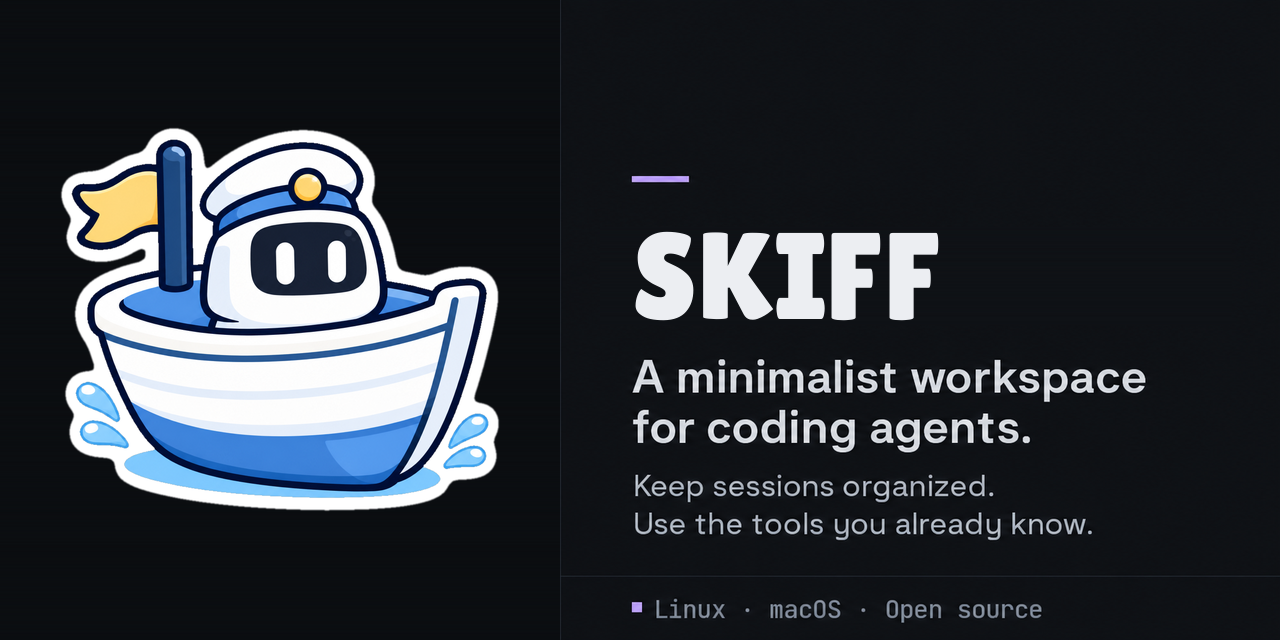
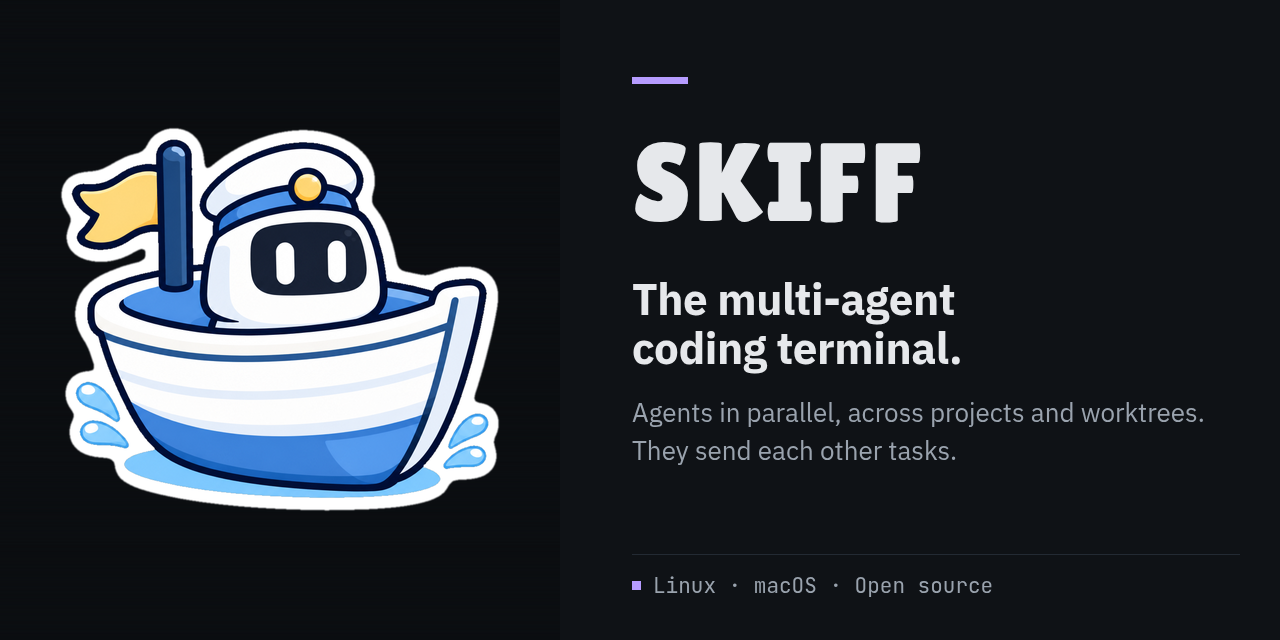
Social preview: the multi-agent coding terminal; og:image v4
The PNG now has a source: tools/social-preview.html, rendered by
tools/social-preview.py with headless Chrome. The left panel is the
old mascot panel, kept as tools/social-preview-mascot.png. The
og:image:alt matches the new headline and the footer text sits inside
GitHub's 40px safe margin.

diff --git a/tools/social-preview.html b/tools/social-preview.html
@@ -1,0 +1,42 @@
+<!doctype html>
+<!-- Source of social-preview.png (1280x640, the og:image of every page and the
+     GitHub social preview). Edit the text here, then run:
+
+         python3 tools/social-preview.py
+
+     The left panel is tools/social-preview-mascot.png: the idle pose on the
+     bg-deep colour, 560x640, kept from the first render. Colours and fonts follow
+     site.css. Text stays inside GitHub's 40px safe margin. -->
+<html lang="en">
+<head>
+<meta charset="utf-8">
+<link href="https://fonts.googleapis.com/css2?family=IBM+Plex+Sans:wght@400;500;600;700&family=JetBrains+Mono:wght@400;600&family=Lilita+One&display=swap" rel="stylesheet">
+<style>
+  * { box-sizing: border-box; margin: 0; }
+  html, body { width: 1280px; height: 640px; overflow: hidden; }
+  body { display: flex; background: #0f1216; color: #e6e8eb; font-family: "IBM Plex Sans", system-ui, sans-serif; -webkit-font-smoothing: antialiased; }
+  .mascot { width: 560px; height: 640px; background: #0b0e12; border-right: 1px solid #232a33; }
+  .mascot img { display: block; }
+  .copy { flex: 1; padding: 0 40px 24px 72px; display: flex; flex-direction: column; }
+  .text { flex: 1; display: flex; flex-direction: column; justify-content: center; padding-bottom: 8px; }
+  .rule { width: 56px; height: 7px; background: #b69cff; margin-bottom: 42px; }
+  .mark { font-family: "Lilita One", sans-serif; font-weight: 400; font-size: 112px; line-height: 1; letter-spacing: 0.02em; text-transform: uppercase; color: #e6e8eb; margin-bottom: 36px; }
+  h1 { font-size: 44px; line-height: 1.12; font-weight: 700; letter-spacing: -0.01em; color: #e6e8eb; margin-bottom: 22px; }
+  p { font-size: 26px; line-height: 1.45; font-weight: 400; color: #9aa3ae; }
+  .foot { height: 62px; border-top: 1px solid #232a33; display: flex; align-items: center; gap: 12px; font-family: "JetBrains Mono", ui-monospace, monospace; font-size: 21px; color: #9aa3ae; }
+  .foot i { width: 9px; height: 9px; background: #b69cff; }
+</style>
+</head>
+<body>
+<div class="mascot"><img src="social-preview-mascot.png" alt="" width="560" height="640"></div>
+<div class="copy">
+  <div class="text">
+    <div class="rule"></div>
+    <div class="mark">Skiff</div>
+    <h1>The multi-agent<br>coding terminal.</h1>
+    <p>Agents in parallel, across projects and worktrees.<br>They send each other tasks.</p>
+  </div>
+  <div class="foot"><i></i>Linux · macOS · Open source</div>
+</div>
+</body>
+</html>

diff --git a/guides/skiff-user-guide/focus-mode-and-mission-control/index.html b/guides/skiff-user-guide/focus-mode-and-mission-control/index.html
@@ -10,10 +10,10 @@
 <meta property="og:type" content="article">
 <meta property="og:site_name" content="Skiff">
 <meta property="og:url" content="https://skiff.solutionscay.com/guides/skiff-user-guide/focus-mode-and-mission-control/">
-<meta property="og:image" content="https://skiff.solutionscay.com/social-preview.png?v=3">
+<meta property="og:image" content="https://skiff.solutionscay.com/social-preview.png?v=4">
 <meta property="og:image:width" content="1280">
 <meta property="og:image:height" content="640">
-<meta property="og:image:alt" content="Skiff: a minimalist desktop workspace for coding agents">
+<meta property="og:image:alt" content="Skiff: the multi-agent coding terminal">
 <meta name="twitter:card" content="summary_large_image">
 <link rel="canonical" href="https://skiff.solutionscay.com/guides/skiff-user-guide/focus-mode-and-mission-control/">
 <link rel="icon" href="../../../favicon.png">

diff --git a/guides/skiff-user-guide/side-panel-diffs-and-files/index.html b/guides/skiff-user-guide/side-panel-diffs-and-files/index.html
@@ -10,10 +10,10 @@
 <meta property="og:type" content="article">
 <meta property="og:site_name" content="Skiff">
 <meta property="og:url" content="https://skiff.solutionscay.com/guides/skiff-user-guide/side-panel-diffs-and-files/">
-<meta property="og:image" content="https://skiff.solutionscay.com/social-preview.png?v=3">
+<meta property="og:image" content="https://skiff.solutionscay.com/social-preview.png?v=4">
 <meta property="og:image:width" content="1280">
 <meta property="og:image:height" content="640">
-<meta property="og:image:alt" content="Skiff: a minimalist desktop workspace for coding agents">
+<meta property="og:image:alt" content="Skiff: the multi-agent coding terminal">
 <meta name="twitter:card" content="summary_large_image">
 <link rel="canonical" href="https://skiff.solutionscay.com/guides/skiff-user-guide/side-panel-diffs-and-files/">
 <link rel="icon" href="../../../favicon.png">

diff --git a/guides/skiff-user-guide/projects-and-fleets/index.html b/guides/skiff-user-guide/projects-and-fleets/index.html
@@ -10,10 +10,10 @@
 <meta property="og:type" content="article">
 <meta property="og:site_name" content="Skiff">
 <meta property="og:url" content="https://skiff.solutionscay.com/guides/skiff-user-guide/projects-and-fleets/">
-<meta property="og:image" content="https://skiff.solutionscay.com/social-preview.png?v=3">
+<meta property="og:image" content="https://skiff.solutionscay.com/social-preview.png?v=4">
 <meta property="og:image:width" content="1280">
 <meta property="og:image:height" content="640">
-<meta property="og:image:alt" content="Skiff: a minimalist desktop workspace for coding agents">
+<meta property="og:image:alt" content="Skiff: the multi-agent coding terminal">
 <meta name="twitter:card" content="summary_large_image">
 <link rel="canonical" href="https://skiff.solutionscay.com/guides/skiff-user-guide/projects-and-fleets/">
 <link rel="icon" href="../../../favicon.png">

diff --git a/guides/skiff-user-guide/sessions-and-groups/index.html b/guides/skiff-user-guide/sessions-and-groups/index.html
@@ -10,10 +10,10 @@
 <meta property="og:type" content="article">
 <meta property="og:site_name" content="Skiff">
 <meta property="og:url" content="https://skiff.solutionscay.com/guides/skiff-user-guide/sessions-and-groups/">
-<meta property="og:image" content="https://skiff.solutionscay.com/social-preview.png?v=3">
+<meta property="og:image" content="https://skiff.solutionscay.com/social-preview.png?v=4">
 <meta property="og:image:width" content="1280">
 <meta property="og:image:height" content="640">
-<meta property="og:image:alt" content="Skiff: a minimalist desktop workspace for coding agents">
+<meta property="og:image:alt" content="Skiff: the multi-agent coding terminal">
 <meta name="twitter:card" content="summary_large_image">
 <link rel="canonical" href="https://skiff.solutionscay.com/guides/skiff-user-guide/sessions-and-groups/">
 <link rel="icon" href="../../../favicon.png">

diff --git a/guides/skiff-user-guide/set-up-admiral/index.html b/guides/skiff-user-guide/set-up-admiral/index.html
@@ -10,10 +10,10 @@
 <meta property="og:type" content="article">
 <meta property="og:site_name" content="Skiff">
 <meta property="og:url" content="https://skiff.solutionscay.com/guides/skiff-user-guide/set-up-admiral/">
-<meta property="og:image" content="https://skiff.solutionscay.com/social-preview.png?v=3">
+<meta property="og:image" content="https://skiff.solutionscay.com/social-preview.png?v=4">
 <meta property="og:image:width" content="1280">
 <meta property="og:image:height" content="640">
-<meta property="og:image:alt" content="Skiff: a minimalist desktop workspace for coding agents">
+<meta property="og:image:alt" content="Skiff: the multi-agent coding terminal">
 <meta name="twitter:card" content="summary_large_image">
 <link rel="canonical" href="https://skiff.solutionscay.com/guides/skiff-user-guide/set-up-admiral/">
 <link rel="icon" href="../../../favicon.png">

diff --git a/guides/git-worktrees-for-coding-agents/index.html b/guides/git-worktrees-for-coding-agents/index.html
@@ -10,10 +10,10 @@
 <meta property="og:type" content="article">
 <meta property="og:site_name" content="Skiff">
 <meta property="og:url" content="https://skiff.solutionscay.com/guides/git-worktrees-for-coding-agents/">
-<meta property="og:image" content="https://skiff.solutionscay.com/social-preview.png?v=3">
+<meta property="og:image" content="https://skiff.solutionscay.com/social-preview.png?v=4">
 <meta property="og:image:width" content="1280">
 <meta property="og:image:height" content="640">
-<meta property="og:image:alt" content="Skiff: a minimalist desktop workspace for coding agents">
+<meta property="og:image:alt" content="Skiff: the multi-agent coding terminal">
 <meta name="twitter:card" content="summary_large_image">
 <link rel="canonical" href="https://skiff.solutionscay.com/guides/git-worktrees-for-coding-agents/">
 <link rel="icon" href="../../favicon.png">

diff --git a/guides/skiff-user-guide/drop-images/index.html b/guides/skiff-user-guide/drop-images/index.html
@@ -10,10 +10,10 @@
 <meta property="og:type" content="article">
 <meta property="og:site_name" content="Skiff">
 <meta property="og:url" content="https://skiff.solutionscay.com/guides/skiff-user-guide/drop-images/">
-<meta property="og:image" content="https://skiff.solutionscay.com/social-preview.png?v=3">
+<meta property="og:image" content="https://skiff.solutionscay.com/social-preview.png?v=4">
 <meta property="og:image:width" content="1280">
 <meta property="og:image:height" content="640">
-<meta property="og:image:alt" content="Skiff: a minimalist desktop workspace for coding agents">
+<meta property="og:image:alt" content="Skiff: the multi-agent coding terminal">
 <meta name="twitter:card" content="summary_large_image">
 <link rel="canonical" href="https://skiff.solutionscay.com/guides/skiff-user-guide/drop-images/">
 <link rel="icon" href="../../../favicon.png">

diff --git a/guides/run-coding-agents-in-parallel/index.html b/guides/run-coding-agents-in-parallel/index.html
@@ -10,10 +10,10 @@
 <meta property="og:type" content="article">
 <meta property="og:site_name" content="Skiff">
 <meta property="og:url" content="https://skiff.solutionscay.com/guides/run-coding-agents-in-parallel/">
-<meta property="og:image" content="https://skiff.solutionscay.com/social-preview.png?v=3">
+<meta property="og:image" content="https://skiff.solutionscay.com/social-preview.png?v=4">
 <meta property="og:image:width" content="1280">
 <meta property="og:image:height" content="640">
-<meta property="og:image:alt" content="Skiff: a minimalist desktop workspace for coding agents">
+<meta property="og:image:alt" content="Skiff: the multi-agent coding terminal">
 <meta name="twitter:card" content="summary_large_image">
 <link rel="canonical" href="https://skiff.solutionscay.com/guides/run-coding-agents-in-parallel/">
 <link rel="icon" href="../../favicon.png">

diff --git a/guides/skiff-user-guide/workspaces/index.html b/guides/skiff-user-guide/workspaces/index.html
@@ -10,10 +10,10 @@
 <meta property="og:type" content="article">
 <meta property="og:site_name" content="Skiff">
 <meta property="og:url" content="https://skiff.solutionscay.com/guides/skiff-user-guide/workspaces/">
-<meta property="og:image" content="https://skiff.solutionscay.com/social-preview.png?v=3">
+<meta property="og:image" content="https://skiff.solutionscay.com/social-preview.png?v=4">
 <meta property="og:image:width" content="1280">
 <meta property="og:image:height" content="640">
-<meta property="og:image:alt" content="Skiff: a minimalist desktop workspace for coding agents">
+<meta property="og:image:alt" content="Skiff: the multi-agent coding terminal">
 <meta name="twitter:card" content="summary_large_image">
 <link rel="canonical" href="https://skiff.solutionscay.com/guides/skiff-user-guide/workspaces/">
 <link rel="icon" href="../../../favicon.png">

diff --git a/guides/keep-agent-sessions-running/index.html b/guides/keep-agent-sessions-running/index.html
@@ -10,10 +10,10 @@
 <meta property="og:type" content="article">
 <meta property="og:site_name" content="Skiff">
 <meta property="og:url" content="https://skiff.solutionscay.com/guides/keep-agent-sessions-running/">
-<meta property="og:image" content="https://skiff.solutionscay.com/social-preview.png?v=3">
+<meta property="og:image" content="https://skiff.solutionscay.com/social-preview.png?v=4">
 <meta property="og:image:width" content="1280">
 <meta property="og:image:height" content="640">
-<meta property="og:image:alt" content="Skiff: a minimalist desktop workspace for coding agents">
+<meta property="og:image:alt" content="Skiff: the multi-agent coding terminal">
 <meta name="twitter:card" content="summary_large_image">
 <link rel="canonical" href="https://skiff.solutionscay.com/guides/keep-agent-sessions-running/">
 <link rel="icon" href="../../favicon.png">

diff --git a/guides/skiff-user-guide/settings/index.html b/guides/skiff-user-guide/settings/index.html
@@ -10,10 +10,10 @@
 <meta property="og:type" content="article">
 <meta property="og:site_name" content="Skiff">
 <meta property="og:url" content="https://skiff.solutionscay.com/guides/skiff-user-guide/settings/">
-<meta property="og:image" content="https://skiff.solutionscay.com/social-preview.png?v=3">
+<meta property="og:image" content="https://skiff.solutionscay.com/social-preview.png?v=4">
 <meta property="og:image:width" content="1280">
 <meta property="og:image:height" content="640">
-<meta property="og:image:alt" content="Skiff: a minimalist desktop workspace for coding agents">
+<meta property="og:image:alt" content="Skiff: the multi-agent coding terminal">
 <meta name="twitter:card" content="summary_large_image">
 <link rel="canonical" href="https://skiff.solutionscay.com/guides/skiff-user-guide/settings/">
 <link rel="icon" href="../../../favicon.png">
